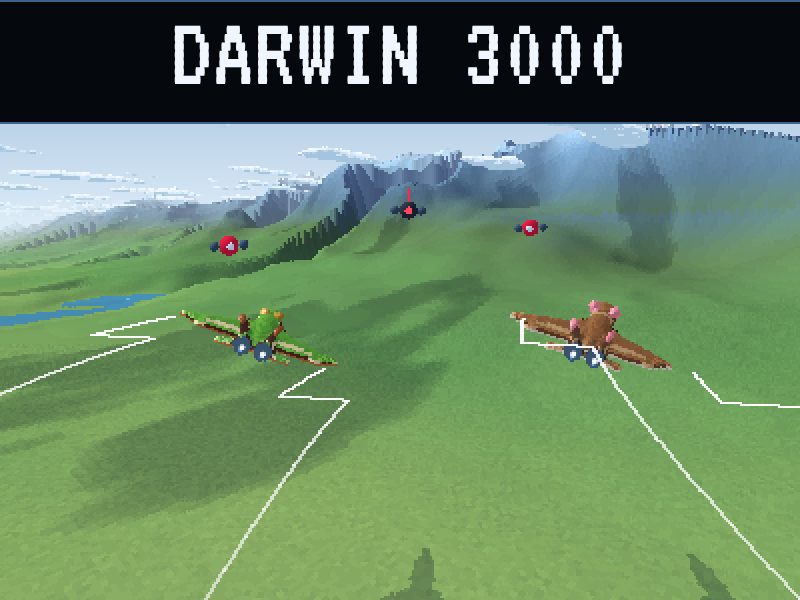
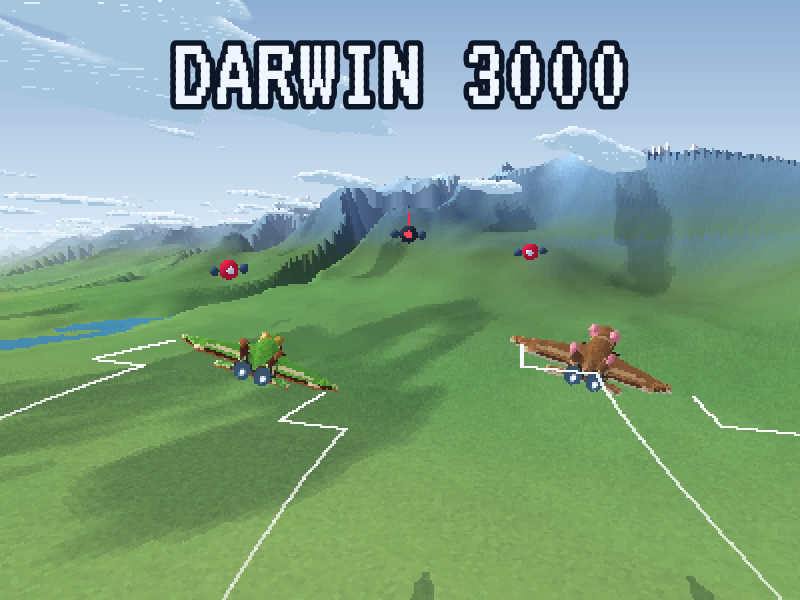
Interfaz sin fondos: instrumentos sobre la vista y letra con borde

diff --git a/game.js b/game.js
@@ -57,7 +57,7 @@ const ROLL_SLIDE = 11; // how far a barrel roll carries the condor sideways
 // model: small against the land, so the valley is wide and the cordillera towers
 const MODEL_SCALE = 0.2; // world units per design unit
 // camera
-const CHASE_Y = 0.56; // where the condor sits on screen, top to bottom
+const CHASE_Y = 0.6; // where the condor sits on screen, top to bottom
 const CHASE_FOLLOW = 7; // how quickly the camera swings round behind the condor …
 const CHASE_SLIDE = 5; // … and how quickly it catches up when the condor moves sideways
 const CHASE_DIST = 2.6; // camera distance, in model lengths
@@ -2518,17 +2518,17 @@ function glitch(amount) {
 
 // ── the panel: lettering, gauges, radar and markers, drawn straight into the picture
 
-// ── the console: the picture is a monitor between two black decks of instruments
+// ── the instruments: laid straight over the picture, with no panels behind them. Lettering
+// and gauges carry a dark edge instead, so they read over sky, snow and grass alike
 
 const INK = pack(240, 246, 255);
-const DIM = pack(130, 168, 198);
+const DIM = pack(176, 208, 232);
 const GOLD = pack(255, 214, 90);
 const WATER = pack(110, 180, 230);
-const BLACK = pack(5, 8, 12);
-const LINE = pack(60, 100, 138); // rules, rings and the frames of things
-const OFF = pack(24, 38, 54); // a lamp that is not lit
-const TOP = 36; // where the upper deck ends …
-const VB = BH - 52; // … and where the lower one begins
+const EDGE = pack(12, 22, 38); // the dark edge (the lettering's is the same colour)
+const OFF = pack(44, 62, 84); // a lamp that is not lit
+const TOP = 16; // marks keep this far from the top of the screen …
+const VB = BH - 16; // … and stop here at the foot
 
 function box(x, y, w, h, colour) {
   const x0 = Math.max(0, x | 0);
@@ -2556,7 +2556,7 @@ function text(str, x, y, colour, size, align) {
   str = String(str);
   size = SIZES[size || 1];
   if (t.text !== str) t.setText(str);
-  if (t.size !== size) t.setFontSize((t.size = size));
+  if (t.size !== size) t.setFontSize((t.size = size)).setStroke('#0c1626', 2.5 + size / 12);
   if (t.ink !== colour) {
     t.ink = colour;
     t.setColor('#' + (((colour & 255) << 16) | (colour & 0xff00) | ((colour >> 16) & 255)).toString(16).padStart(6, '0'));
@@ -2583,27 +2583,17 @@ function face(who, x, y, size, flip) {
   }
 }
 
-// A black panel, ruled off above and below.
-function plate(x, y, w, h) {
-  box(x, y, w, h, BLACK);
-  box(x, y, w, 1, LINE);
-  box(x, y + h - 1, w, 1, LINE);
-}
-
-// A gauge: a row of lamps, lit up to `share` of the way along.
+// A gauge: a row of lamps, lit up to `share` of the way along, in a dark frame.
 function gauge(x, y, w, share, colour, h) {
   const n = (w / 6) | 0;
+  box(x - 1, y - 1, n * 6 + 1, (h || 5) + 2, EDGE);
   for (let i = 0; i < n; i++) box(x + i * 6, y, 5, h || 5, i < share * n ? colour : OFF);
 }
 
-// A name plate: what a mark is, and what to do about it, underlined in the mark's colour.
+// A name beside a mark: what it is, and what to do about it.
 function tag(str, x, y, colour) {
   const w = str.length * 4.8 + 6;
-  x = clamp(x, w / 2 + 2, BW - w / 2 - 2);
-  y = clamp(y, TOP + 2, VB - 13);
-  box(x - w / 2, y, w, 10, BLACK);
-  box(x - w / 2, y + 10, w, 1, colour);
-  text(str, x, y, colour, 1, 1);
+  text(str, clamp(x, w / 2 + 2, BW - w / 2 - 2), clamp(y, TOP + 2, VB - 13), colour, 1, 1);
 }
 
 // A mark for something the pilot cannot see: an arrowhead at the edge of the screen when it is
@@ -2638,9 +2628,13 @@ function mark(x, y, z, colour, label, always) {
   const k = side ? (CXS - 9) / Math.abs(ex) : half / Math.abs(ey);
   const px = CXS + ex * k;
   const py = mid + ey * k;
-  for (let i = 0; i < 6; i++) {
-    if (side) box(px - Math.sign(ex) * i, py - i, 1, 2 * i + 1, colour);
-    else box(px - i, py - Math.sign(ey) * i, 2 * i + 1, 1, colour);
+  for (let i = -1; i < 14; i++) {
+    // the arrowhead, twice: a dark one a size larger, then the coloured one inside it
+    const n = i < 8 ? i : i - 8;
+    const c = i < 8 ? EDGE : colour;
+    const o = i < 8 ? -1 : 0;
+    if (side) box(px - Math.sign(ex) * (n + o), py - n, 1, 2 * n + 1, c);
+    else box(px - n, py - Math.sign(ey) * (n + o), 2 * n + 1, 1, c);
   }
   if (side) tag(label, px - Math.sign(ex) * (label.length * 2.4 + 12), py - 5, colour);
   else tag(label, px, py - Math.sign(ey) * 13 - 5, colour);
@@ -2648,12 +2642,10 @@ function mark(x, y, z, colour, label, always) {
 
 // The radar: what is around the crew, nose up, under a sweeping hand.
 function radar(cx, cy, R) {
-  for (let y = -R; y <= R; y++) {
-    const w = Math.round(Math.sqrt(R * R - y * y));
-    box(cx - w, cy + y, 2 * w, 1, LINE);
-    box(cx - w + 1, cy + y, 2 * w - 2, 1, y ? OFF : LINE);
+  for (let a = 0; a < TAU; a += 0.02) {
+    // a ring, dark outside and pale inside, with nothing behind it
+    for (let i = 0; i < 3; i++) box(cx + Math.sin(a) * (R + 1 - i), cy + Math.cos(a) * (R + 1 - i), 1, 1, i ? DIM : EDGE);
   }
-  box(cx, cy - R, 1, 2 * R, LINE);
   for (let i = 0; i < R; i++) box(cx + Math.sin(now * 3) * i, cy - Math.cos(now * 3) * i, 1, 1, DIM);
   const sx = Math.sin(sq.yaw);
   const sy = -Math.cos(sq.yaw);
@@ -2682,39 +2674,37 @@ function drawHud() {
   for (const t of LABELS) t.setVisible(false);
   labelN = 0;
   const blink = (now * 2) & 1;
-  plate(0, 0, BW, TOP);
-  plate(0, VB, BW, BH - VB);
   if (gMode !== PLAY) {
     const over = gMode === OVER;
-    text('AÑO 3000 · DRONES DE IA ENEMIGA ATACAN CHILE', CXS, 6, INK, 1, 1);
-    text('RANITAS Y MONITOS SÚPER INTELIGENTES PILOTEAN LA DEFENSA', CXS, 19, DIM, 1, 1);
-    plate(0, 74, BW, 62);
-    text(over ? 'FIN DEL VUELO' : 'DARWIN 3000', CXS, 78, INK, 4, 1);
-    if (over) text('PUNTAJE ' + gScore + ' · RÉCORD ' + gBest, CXS, 116, GOLD, 2, 1);
-    else if (blink) text('START 1: UN JUGADOR · START 2: DOS', CXS, 116, GOLD, 2, 1);
-    face(0, 4, VB + 2, 2);
-    face(1, BW - 60, VB + 2, 2, 1);
-    text('DARWIN', 64, VB + 3, GOLD);
-    text('MONITO', BW - 64, VB + 3, GOLD, 1, 2);
-    text('PALANCA VOLAR · B1 DISPARO · B2/B3 TONEL', CXS, VB + 15, INK, 1, 1);
-    text('B4 IMPULSO · B5 AGUA · VUELA BAJO Y RESCATA', CXS, VB + 26, DIM, 1, 1);
-    if (!over) text('RÉCORD ' + gBest, CXS, VB + 38, DIM, 1, 1);
-    else if (blink) text('START PARA VOLAR DE NUEVO', CXS, VB + 38, GOLD, 1, 1);
+    text('AÑO 3000 · DRONES DE IA ENEMIGA ATACAN CHILE', CXS, 8, INK, 1, 1);
+    text('RANITAS Y MONITOS SÚPER INTELIGENTES PILOTEAN LA DEFENSA', CXS, 21, DIM, 1, 1);
+    text(over ? 'FIN DEL VUELO' : 'DARWIN 3000', CXS, 62, INK, 4, 1);
+    if (over) text('PUNTAJE ' + gScore + ' · RÉCORD ' + gBest, CXS, 104, GOLD, 2, 1);
+    else if (blink) text('START 1: UN JUGADOR · START 2: DOS', CXS, 104, GOLD, 2, 1);
+    face(0, 6, BH - 54, 2);
+    face(1, BW - 62, BH - 54, 2, 1);
+    text('DARWIN', 66, BH - 52, GOLD);
+    text('MONITO', BW - 66, BH - 52, GOLD, 1, 2);
+    text('PALANCA VOLAR · B1 DISPARO · B2/B3 TONEL', CXS, BH - 40, INK, 1, 1);
+    text('B4 IMPULSO · B5 AGUA · VUELA BAJO Y RESCATA', CXS, BH - 28, DIM, 1, 1);
+    if (!over) text('RÉCORD ' + gBest, CXS, BH - 16, DIM, 1, 1);
+    else if (blink) text('START PARA VOLAR DE NUEVO', CXS, BH - 16, GOLD, 1, 1);
     return;
   }
 
   const goal = folk[0] || fires[0];
-  for (const x of [119, 281]) box(x, 4, 1, TOP - 9, LINE);
-  for (const x of [60, 339]) box(x, VB + 4, 1, BH - VB - 8, LINE);
 
-  // upper deck, left: score, the multiplier, and how long the crew has kept low
-  text('PUNTAJE', 4, 3, DIM);
-  if (gAgl < 8) text('VUELO BAJO', 114, 3, GOLD, 1, 2);
-  text(String(gScore).padStart(6, '0'), 4, 15, INK, 2);
-  text('×' + gMult, 114, 15, gMult > 1 ? GOLD : DIM, 2, 2);
-  box(4, 31, (gLow / 10) * 110, 2, GOLD);
+  // top left: score, the multiplier, and how long the crew has kept low
+  text('PUNTAJE', 6, 5, DIM);
+  if (gAgl < 8) text('VUELO BAJO', 116, 5, GOLD, 1, 2);
+  text(String(gScore).padStart(6, '0'), 6, 16, INK, 2);
+  text('×' + gMult, 116, 16, gMult > 1 ? GOLD : DIM, 2, 2);
+  if (gLow > 0.1) {
+    box(5, 32, (gLow / 10) * 110 + 2, 4, EDGE);
+    box(6, 33, (gLow / 10) * 110, 2, GOLD);
+  }
 
-  // middle: the job in hand, and how it is done
+  // top middle: the job in hand, and how it is done
   const duty = folk[0]
     ? [`ALUVIÓN · ${folk.length} POR RESCATAR`, 'PASA BAJITO SOBRE CADA BALIZA']
     : goal
@@ -2722,71 +2712,65 @@ function drawHud() {
       : sat
         ? ['SATÉLITE HACKER', 'SUBE A LA ESTRATÓSFERA Y DISPARA']
         : ['PATRULLA', 'DERRIBA DRONES · VUELA BAJO'];
-  if (goal || sat) for (const x of [124, 272]) box(x, 8, 4, 4, blink ? GOLD : OFF); // lamps: something is up
-  text(duty[0], CXS, 6, GOLD, 1, 1);
-  text(duty[1], CXS, 19, INK, 1, 1);
+  text(duty[0], CXS, 5, goal || sat ? (blink ? GOLD : INK) : GOLD, 1, 1);
+  text(duty[1], CXS, 17, INK, 1, 1);
 
-  // right: shield, boost (a row each with two aboard) and water
-  text('ESCUDO', 286, 3, DIM);
-  gauge(326, 4, 66, gShield / 100, gShield < 30 ? colRed : INK);
-  text('IMPULSO', 286, 14, DIM);
-  crew.forEach((f, i) => gauge(326, 15 + i * 3, 66, f.stam / 100, i ? GOLD : INK, crew[1] ? 2 : 5));
-  text('AGUA', 286, 25, DIM);
-  for (let i = 0; i < 3; i++) box(326 + i * 22, 26, 21, 5, i < gWater ? WATER : OFF);
+  // top right: shield, boost (a row each with two aboard) and water
+  text('ESCUDO', 288, 5, DIM);
+  gauge(328, 7, 66, gShield / 100, gShield < 30 ? colRed : INK);
+  text('IMPULSO', 288, 16, DIM);
+  crew.forEach((f, i) => gauge(328, 18 + i * 4, 66, f.stam / 100, i ? GOLD : INK, crew[1] ? 2 : 5));
+  text('AGUA', 288, 27, DIM);
+  box(327, 28, 67, 7, EDGE);
+  for (let i = 0; i < 3; i++) box(328 + i * 22, 29, 21, 5, i < gWater ? WATER : OFF);
 
-  // lower deck, left: height — the ground rising from the foot of the scale, the cloud base
-  // and the stratosphere ruled across it, and the crew
-  const foot = BH - 5;
+  // bottom left: height — the ground rising from the foot of the scale, the cloud base and
+  // the stratosphere ruled across it, and the crew
+  const foot = BH - 6;
   const rung = (z) => foot - Math.sqrt(clamp(z, 0, CEILING) / CEILING) * 42;
-  box(5, foot - 42, 4, 42, OFF);
-  box(5, rung(gGnd), 4, foot - rung(gGnd), LINE);
-  box(3, rung(CA), 8, 1, DIM);
-  box(3, rung(STRATO), 8, 1, DIM);
-  crew.forEach((f, i) => box(2, rung(f.z) - 1, 10, 2, i ? GOLD : INK));
-  text('ALTURA', 16, VB + 4, DIM);
-  text((gAgl * 10) | 0, 16, VB + 14, INK, 2);
-  text('METROS', 16, VB + 34, DIM);
+  box(5, foot - 43, 6, 44, EDGE);
+  box(6, foot - 42, 4, 42, OFF);
+  box(6, rung(gGnd), 4, foot - rung(gGnd), DIM);
+  box(4, rung(CA), 8, 1, INK);
+  box(4, rung(STRATO), 8, 1, INK);
+  crew.forEach((f, i) => box(3, rung(f.z) - 1, 10, 2, i ? GOLD : INK));
+  text('ALTURA', 18, BH - 47, DIM);
+  text((gAgl * 10) | 0, 18, BH - 37, INK, 2);
+  text('METROS', 18, BH - 17, DIM);
 
-  // middle: the radio — whoever is talking and the line as far as it has been said — or, with
-  // the radio quiet, what the buttons do
+  // bottom middle: the radio — whoever is talking and the line as far as it has been said —
+  // or, with the radio quiet, what the buttons do
   if (talk[1]) {
-    face(talk[0], 64, VB + 2, 2);
-    text(talk[0] ? 'MONITO' : 'DARWIN', 126, VB + 3, GOLD);
-    text(talk[1].slice(0, talkT * 40), 126, VB + 18, INK);
+    face(talk[0], 66, BH - 54, 2);
+    text(talk[0] ? 'MONITO' : 'DARWIN', 128, BH - 52, GOLD);
+    text(talk[1].slice(0, talkT * 40), 128, BH - 38, INK);
   } else {
-    text('B1 DISPARO · B2/B3 TONEL · B4 IMPULSO · B5 AGUA', CXS, VB + 12, DIM, 1, 1);
-    if (!crew[1] && blink) text('START 2: SE SUMA EL MONITO', CXS, VB + 28, GOLD, 1, 1);
+    if (!crew[1] && blink) text('START 2: SE SUMA EL MONITO', CXS, BH - 29, GOLD, 1, 1);
+    text('B1 DISPARO · B2/B3 TONEL · B4 IMPULSO · B5 AGUA', CXS, BH - 16, DIM, 1, 1);
   }
-  radar(370, VB + 26, 23);
+  radar(BW - 30, BH - 30, 24);
 
   if (gShield < 30 && (now * 4) & 1) {
-    // little shield left: the monitor's frame flashes
-    box(0, TOP, BW, 2, colRed);
-    box(0, VB - 2, BW, 2, colRed);
-    box(0, TOP, 2, VB - TOP, colRed);
-    box(BW - 2, TOP, 2, VB - TOP, colRed);
+    // little shield left: the frame flashes
+    box(0, 0, BW, 2, colRed);
+    box(0, BH - 2, BW, 2, colRed);
+    box(0, 0, 2, BH, colRed);
+    box(BW - 2, 0, 2, BH, colRed);
   }
   // with two aboard, each flyer wears its number
-  if (crew[1]) for (const f of crew) if (project(f.x, f.y, f.z + 2.4) && prY > TOP + 12 && prY < VB) text(f.id + 1, prX, prY - 8, f.id ? GOLD : INK, 1, 1);
+  if (crew[1]) for (const f of crew) if (project(f.x, f.y, f.z + 2.4)) text(f.id + 1, prX, prY - 8, f.id ? GOLD : INK, 1, 1);
 
-  // what is going on, across the top of the monitor
+  // what is going on, across the top of the picture
   if (gHacked) {
-    plate(CXS - 100, 46, 200, 54);
-    text('¡HACKEADO!', CXS, 51, colRed, 3, 1);
-    text('AGITA LA PALANCA Y MACHACA B1', CXS, 76, INK, 1, 1);
-    gauge(CXS - 78, 89, 156, gPurge, INK);
+    text('¡HACKEADO!', CXS, 48, colRed, 3, 1);
+    text('AGITA LA PALANCA Y MACHACA B1', CXS, 74, INK, 1, 1);
+    gauge(CXS - 78, 88, 156, gPurge, INK);
   } else if (gChan > 0) {
-    plate(CXS - 150, 46, 300, 31);
-    text('HACKEO ENTRANTE: TONEL O DISPARA', CXS, 50, colRed, 2, 1);
-    gauge(CXS - 78, 67, 156, gChan, colRed);
-  } else if (gMsgT > 0) {
-    const size = gMsg.length > 30 ? 1 : 2;
-    const w = gMsg.length * (size > 1 ? 8.4 : 4.8) + 14;
-    plate(CXS - w / 2, 46, w, 8 + size * 8);
-    text(gMsg, CXS, 50, INK, size, 1);
-  }
+    text('HACKEO ENTRANTE: TONEL O DISPARA', CXS, 48, colRed, 2, 1);
+    gauge(CXS - 78, 66, 156, gChan, colRed);
+  } else if (gMsgT > 0) text(gMsg, CXS, 48, INK, gMsg.length > 30 ? 1 : 2, 1);
 
-  // marks, over the monitor: what cannot be seen and where to go, each with what to do
+  // marks: what cannot be seen and where to go, each with what to do
   for (const d of drones) mark(d.x, d.y, d.z, colRed, d.k ? 'HACKER' : 'DRON');
   for (const f of fences) mark(f.x, f.y, (f.z0 + f.z1) / 2, colRed, 'LÁSER: TONEL');
   if (sat) mark(sat.x, sat.y, sat.z, INK, 'SATÉLITE: SUBE', 1);
